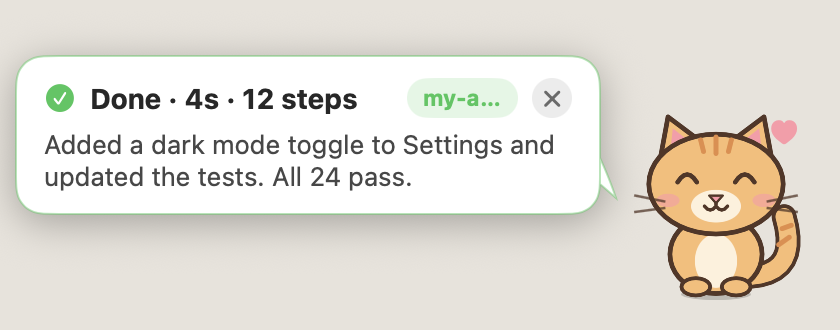
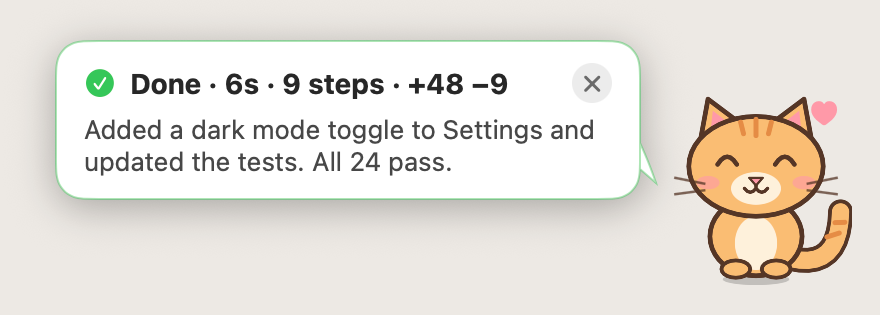
Refresh README captures for the usage menu, helper bubble and lines changed
New demo GIF plus done, menu and helper screenshots showing the plan usage
meters, named context rows, the Helper prefix and the +added −removed title.

Claude-Session: https://claude.ai/code/session_016q5SmAXVg6NGu2NGX6qtK1

Changed region(s): [[0.0, 0.1143, 0.9905, 0.9143], [0.65, 0.2286, 0.681, 0.3429]]

diff --git a/README.md b/README.md
@@ -4,9 +4,9 @@ A tiny desktop cat that shows what [Claude Code](https://claude.com/claude-code)
 
 Free and open source under the MIT license. One Swift file, no dependencies, and nothing leaves your machine.
 
-<p align="center"><img src="docs/demo.gif" width="520" alt="Demo: the cat thinks, reads, edits, sweats through a failing test, asks for permission, then celebrates"></p>
+<p align="center"><img src="docs/demo.gif" width="520" alt="Demo: the cat thinks, reads, edits, sends a helper, sweats through a failing test, asks for permission, then celebrates with the lines changed"></p>
 
-<p align="center"><sub>A scripted session: prompt, reading, editing, a failing test, a permission request, done.</sub></p>
+<p align="center"><sub>A scripted session: prompt, reading, editing, a helper, a failing test, a permission request, done with the lines changed.</sub></p>
 
 ## Screenshots
 
@@ -14,7 +14,8 @@ Free and open source under the MIT license. One Swift file, no dependencies, and
 <tr><td align="center"><img src="docs/think.png" width="400" alt="Thinking about your prompt"><br><sub>Thinking about your prompt</sub></td><td align="center"><img src="docs/read.png" width="400" alt="Reading: curious, eyes scanning"><br><sub>Reading: curious, eyes scanning</sub></td></tr>
 <tr><td align="center"><img src="docs/edit.png" width="400" alt="Editing: focused, tongue out"><br><sub>Editing: focused, tongue out</sub></td><td align="center"><img src="docs/grind.png" width="400" alt="Grinding through a long task: sweating"><br><sub>Grinding through a long task: sweating</sub></td></tr>
 <tr><td align="center"><img src="docs/oops.png" width="400" alt="A tool failed: ears back, error shown"><br><sub>A tool failed: ears back, error shown</sub></td><td align="center"><img src="docs/ask.png" width="400" alt="Needs your permission: bouncing, pleading"><br><sub>Needs your permission: bouncing, pleading</sub></td></tr>
-<tr><td align="center"><img src="docs/done.png" width="400" alt="Done, with Claude's own summary"><br><sub>Done, with Claude's own summary</sub></td><td align="center"><img src="docs/menu.png" width="400" alt="Click the cat for its menu"><br><sub>Click the cat for its menu</sub></td></tr>
+<tr><td align="center"><img src="docs/done.png" width="400" alt="Done, with Claude's own summary and the lines changed"><br><sub>Done: time, steps, lines changed, and Claude's own summary</sub></td><td align="center"><img src="docs/menu.png" width="400" alt="The menu: plan usage, context per chat, and controls"><br><sub>The menu: plan usage, context per chat, and controls</sub></td></tr>
+<tr><td align="center" colspan="2"><img src="docs/helper.png" width="400" alt="A subagent at work, shown as Helper"><br><sub>A subagent at work, shown as Helper</sub></td></tr>
 </table>
 
 ## What it does
